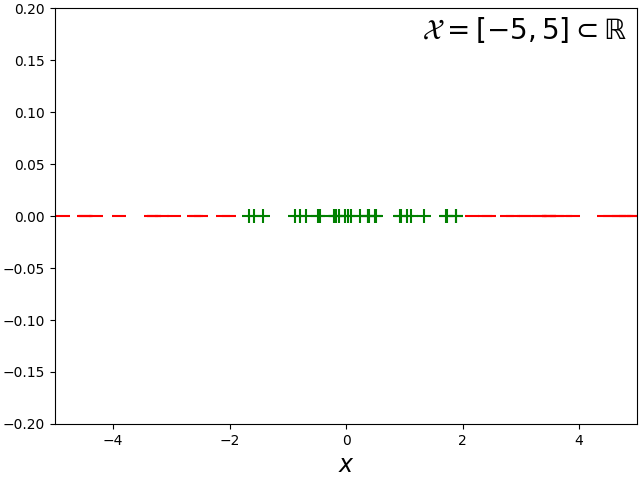
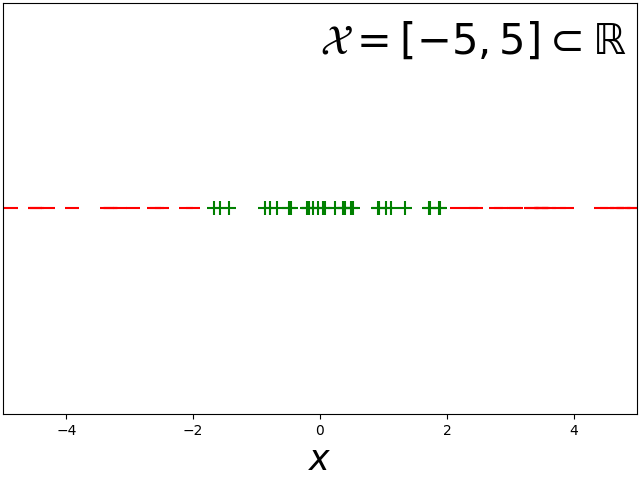
grafikoak hobetu

diff --git a/Grafikoak/4_ez_banangarri_adibidea.py b/Grafikoak/4_ez_banangarri_adibidea.py
@@ -29,11 +29,13 @@ plt.xlim([-5,5])
 plt.ylim([-.2 ,.2])
 # plt.grid()
 # plt.gca().set_aspect('equal', adjustable='box')
-plt.xlabel(r'$x$', fontsize = 17)
+plt.gca().set_yticklabels([])
+plt.tick_params(axis='y', which='both', left=False, right=False)
+plt.xlabel(r'$x$', fontsize = 25)
 # l = plt.legend(["+","-"])
 # l.get_frame().set_alpha(1) 
 plt.tight_layout(pad = 0.2)
-plt.text(1.3, .17, r"$\mathcal{X} = [-5,5] \subset \BbbR$", fontsize=20, color='black')
+plt.text(0, .15, r"$\mathcal{X} = [-5,5] \subset \BbbR$", fontsize=30, color='black')
 plt.show()
 
 
@@ -51,8 +53,10 @@ plt.scatter(x1,y1, s = s, color = "green", marker= "+")
 plt.scatter(x2,y2,s = s, color = "red", marker= "_")
 # plt.grid()
 # plt.gca().set_aspect('equal', adjustable='box')
-plt.xlabel(r'$x$', fontsize = 17)
-plt.ylabel(r'$x^2$', rotation = 0, fontsize = 17)
+plt.gca().set_yticklabels([])
+plt.tick_params(axis='y', which='both', left=False, right=False)
+plt.xlabel(r'$x$', fontsize = 25)
+plt.ylabel(r'$x^2$', rotation = 0, fontsize = 25, labelpad= 8)
 # l = plt.legend(["+","-"])
 # l.get_frame().set_alpha(1) 
 
@@ -67,7 +71,7 @@ plt.plot(x,y,linewidth = 3)
 # l.get_frame().set_alpha(1) 
 plt.xlim([-4,4])
 plt.ylim([-2,16])
-plt.text(2.4, 14.5, r"$\hat{\mathcal{X}} \subset \BbbR^2$", fontsize=20, color='black')
+plt.text(1.5, 13.5, r"$\hat{\mathcal{X}} \subset \BbbR^2$", fontsize=30, color='black')
 plt.tight_layout(pad = 0.2)
 plt.show()
 

diff --git a/Grafikoak/0_Gradiantearen_Beherapena.py b/Grafikoak/0_Gradiantearen_Beherapena.py
@@ -19,6 +19,12 @@ def GD(f,grad_f,x0,iter = 100, mu = 0.1):
 
 minim, W = GD(f= f, grad_f= gradiant_f, x0= np.array([-30,40]), iter = 100, mu = 0.1)
 
+def twoD_GD(f, df, x0, iter = 100, mu = 0.1):
+    W = np.zeros(iter)
+    W[0] = x0
+    for t in range(iter-1):
+        W[t+1] = W[t]- mu * df(W[t])
+    return 1/iter * sum(W), W
 
 # Generar datos para x, y
 x = np.linspace(-50, 50, 100)
@@ -34,8 +40,8 @@ ax = fig.add_subplot(projection='3d')
 
 # Graficar el contorno de la función
 
-altuera = np.array([1000 for i in range(100)])
-contorno = ax.plot_surface(x, y, z, cmap = plt.cm.cividis, alpha = 1)
+altuera = np.array([10 for i in range(100)])
+contorno = ax.plot_surface(x, y, z, cmap = plt.cm.cividis, alpha = 0.5)
 puntos = ax.scatter(W[:,0], W[:,1], f(W[:,0],W[:,1]) + altuera, c = 'r', s = 10,alpha = 1)
 
 # Etiquetas de los ejes
@@ -45,4 +51,21 @@ ax.set_zlabel('Z')
 
 # Mostrar el gráfico
 plt.show()
+
+
+
+
+
+# En 2d
+
+x = np.linspace(-3,3,100)
+
+def funct(x):
+    return x^3
+
+def df(x):
+    return 3*x^2
+
+y = funct(x)
+
 
